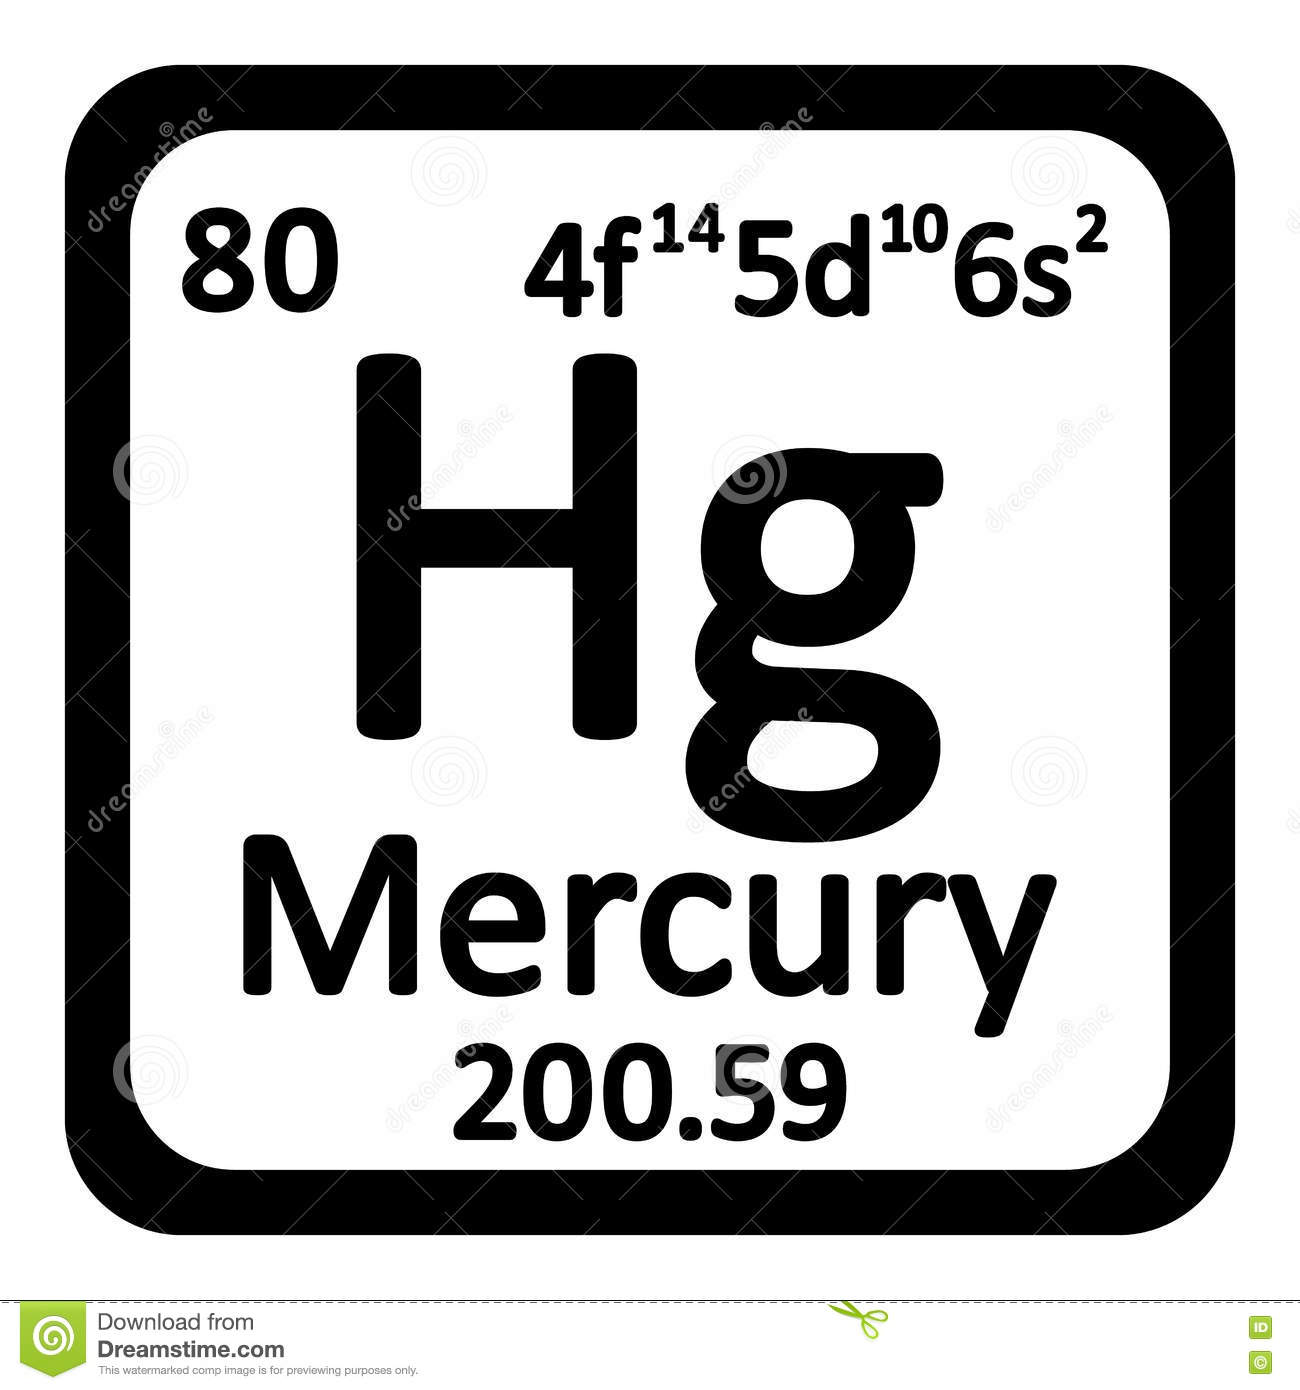
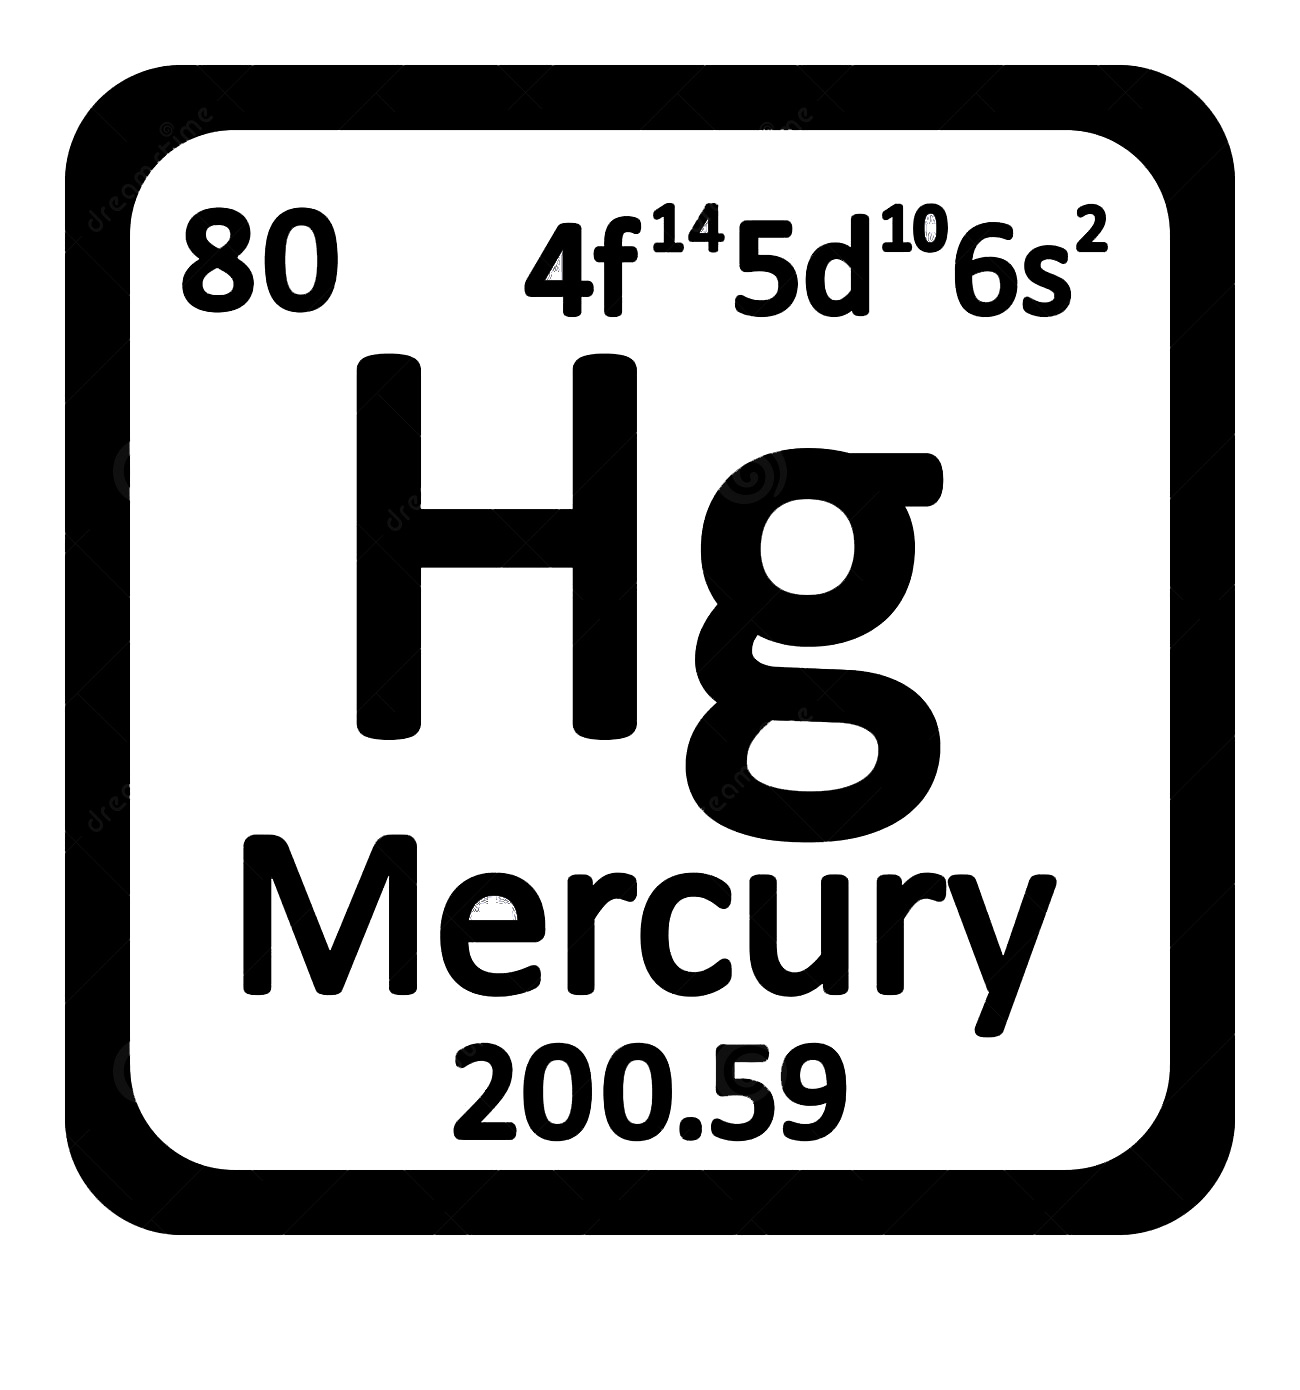
Atualizando img

diff --git a/Website_e-lix/index.html b/Website_e-lix/index.html
@@ -32,11 +32,11 @@
              
                         <div class="col-lg-4 col-sm-6 ">
                             <div class="card mglf">
-                                    <img src="img/consumismo.png" class="card-img-top  tamanho">
+                                    <img src="img/consumismo.jpg" class="card-img-top  tamanho">
                                 <div class="card-body">
                                           <h4 class="card-title"> Gravity falls </h4>
                                          <h6 class="card-subtitle mb-2 text-muted">Subtitulo</h6>
-                                         <p class="card-text">Lorem ipsum dolor sit amet consectetur, adipisicing elit. Minima doloremque ut temporibus impedit provident maiores similique accusantium iure ducimus? Suscipit rerum totam repellendus facere aut hic impedit temporibus culpa consectetur.</p>
+                                         <p class="card-text">Milhares de aparelhos são descartados diariamente, e com a rapidez da tecnologia, cada vez mais o consumidor quer substituir seus aparelhos por outros mais modernos, mesmo que os “antigos” ainda estejam funcionando.</p>
                                           <a href="#" class="card-link"> Cu </a>
                                           <a href="#" class="card-link"> Buscar </a>
                                 </div>
@@ -47,11 +47,11 @@
                     
                         <div class="col-lg-4 col-sm-6">
                             <div class="card mglf">
-                                    <img src="img/consumismo.png" class="card-img-top  tamanho">
+                                    <img src="img/recnatural.jpg" class="card-img-top  tamanho">
                                 <div class="card-body">
                                           <h4 class="card-title"> Gravity falls </h4>
                                          <h6 class="card-subtitle mb-2 text-muted">Subtitulo</h6>
-                                         <p class="card-text">Lorem ipsum dolor sit amet consectetur, adipisicing elit. Minima doloremque ut temporibus impedit provident maiores similique accusantium iure ducimus? Suscipit rerum totam repellendus facere aut hic impedit temporibus culpa consectetur.</p>
+                                         <p class="card-text">O lixo eletrônico causa um grave problema para o meio ambiente, pois consome uma enorme quantidade de recursos naturais em sua produção.</p>
                                           <a href="#" class="card-link"> Cu </a>
                                           <a href="#" class="card-link"> Buscar </a>
                                 </div>
@@ -62,7 +62,7 @@
                     
                         <div class="col-lg-4 col-sm-6">
                             <div class="card mglf">
-                                    <img src="img/consumismo.png" class="card-img-top  tamanho">
+                                    <img src="img/hg.jpg" class="card-img-top  tamanho">
                                 <div class="card-body">
                                           <h4 class="card-title"> Gravity falls </h4>
                                          <h6 class="card-subtitle mb-2 text-muted">Subtitulo</h6>
